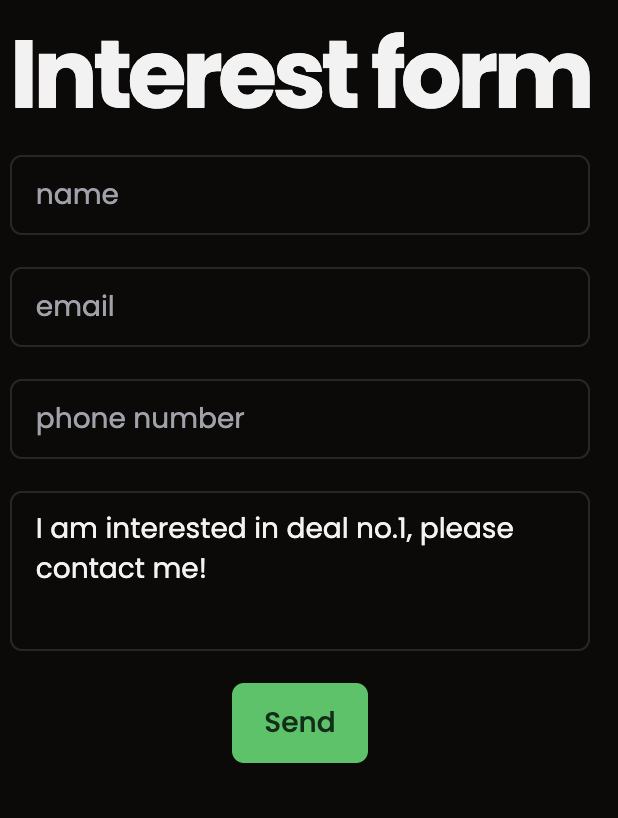
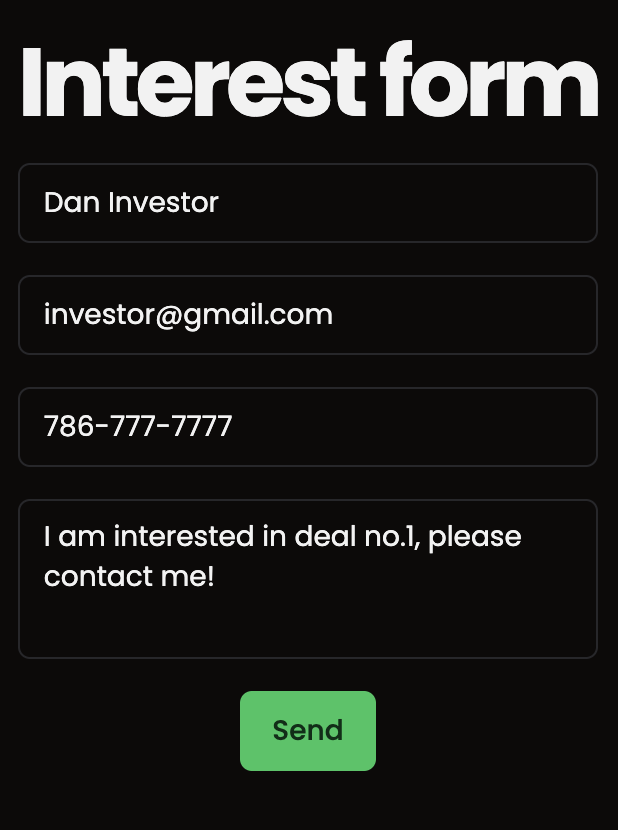
landing page tweaks

diff --git a/src/components/LandingPage.tsx b/src/components/LandingPage.tsx
@@ -17,16 +17,16 @@ const LandingPage = () => {
             Request access to the exclusive deal menu from our dispo team
           </aside>
         </div>
-        <div>
+        <div className=''>
           <img
             src={card}
             alt='card preview'
-            className='h-[300px] w-[300px] rounded-xl shadow-xl shadow-black/25'
+            className='h-[300px] w-[300px] rounded-xl shadow-xl shadow-black/25 '
           />
           <img
             src={interest}
             alt='card preview'
-            className='h-[300px] w-[300px] rounded-xl shadow-xl shadow-black/25'
+            className='h-[300px] w-[300px] rounded-xl shadow-xl shadow-black/25 rotate-x-50 rotate-z-45'
           />
         </div>
       </div>

diff --git a/src/index.css b/src/index.css
@@ -66,15 +66,15 @@
 
 @layer utilities {
   #gradient {
-    background-color: hsla(0, 0%, 0%, 0.87);
+    background-color: hsla(0, 7%, 15%, 1);
     background-image: radial-gradient(
-        at 100% 98%,
-        hsla(0, 0%, 100%, 0) 0px,
+        at 89% 11%,
+        hsla(227, 92%, 55%, 0.7) 0px,
         transparent 50%
       ),
       radial-gradient(
-        at 77% 31%,
-        hsla(225, 80%, 46%, 0.98) 0px,
+        at 20% 90%,
+        hsla(228, 0%, 100%, 0.23) 0px,
         transparent 50%
       );
   }
